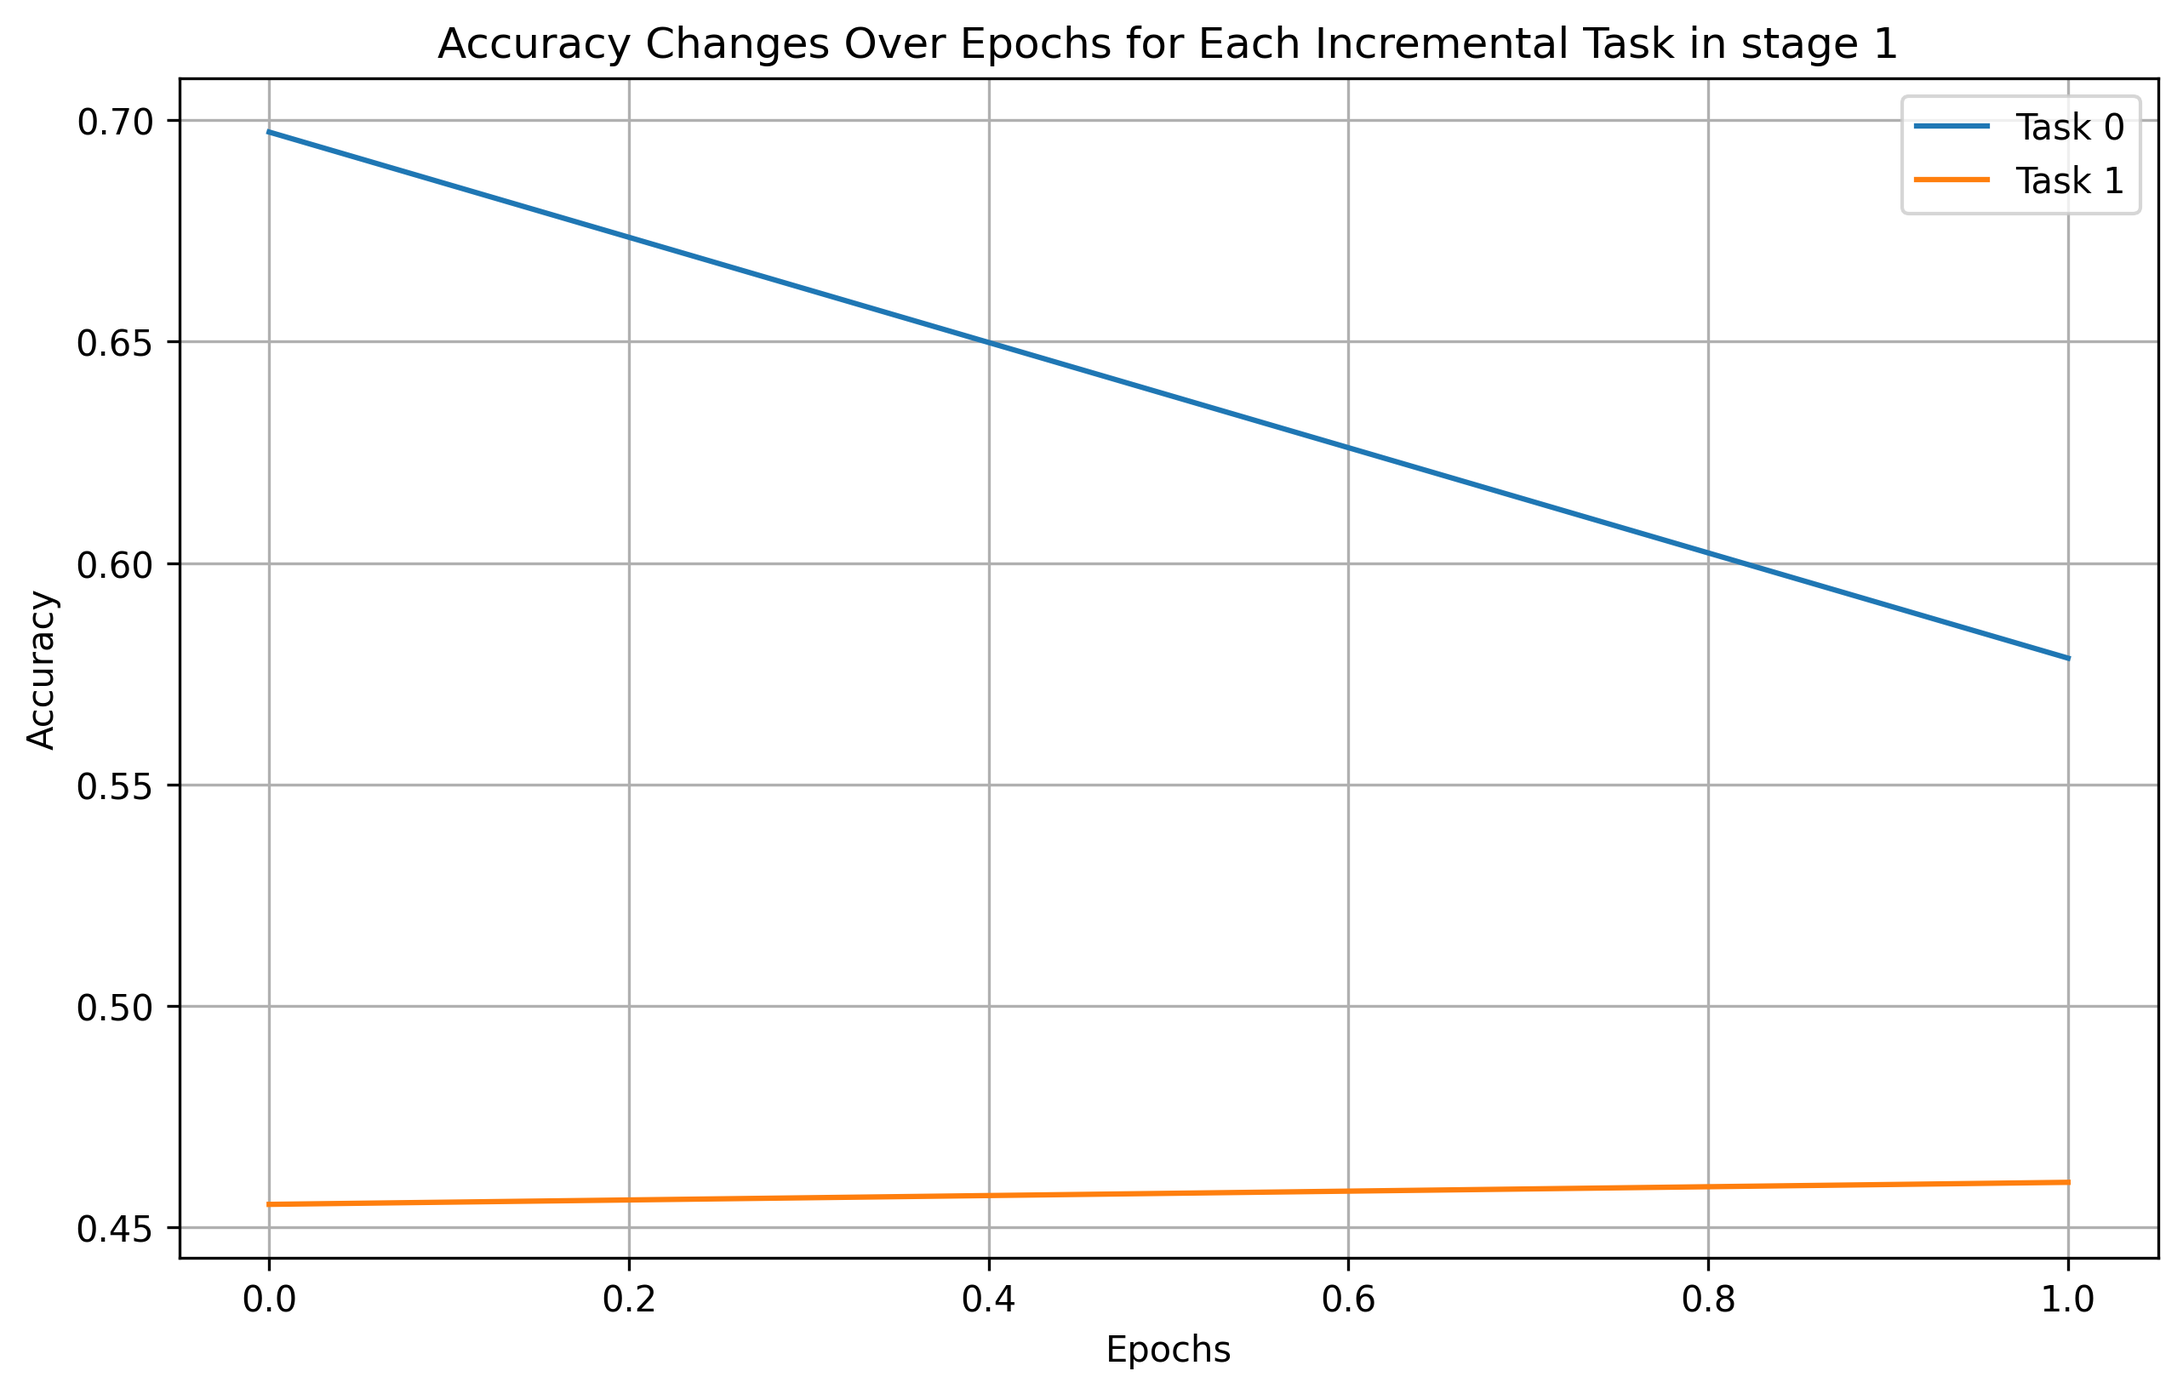
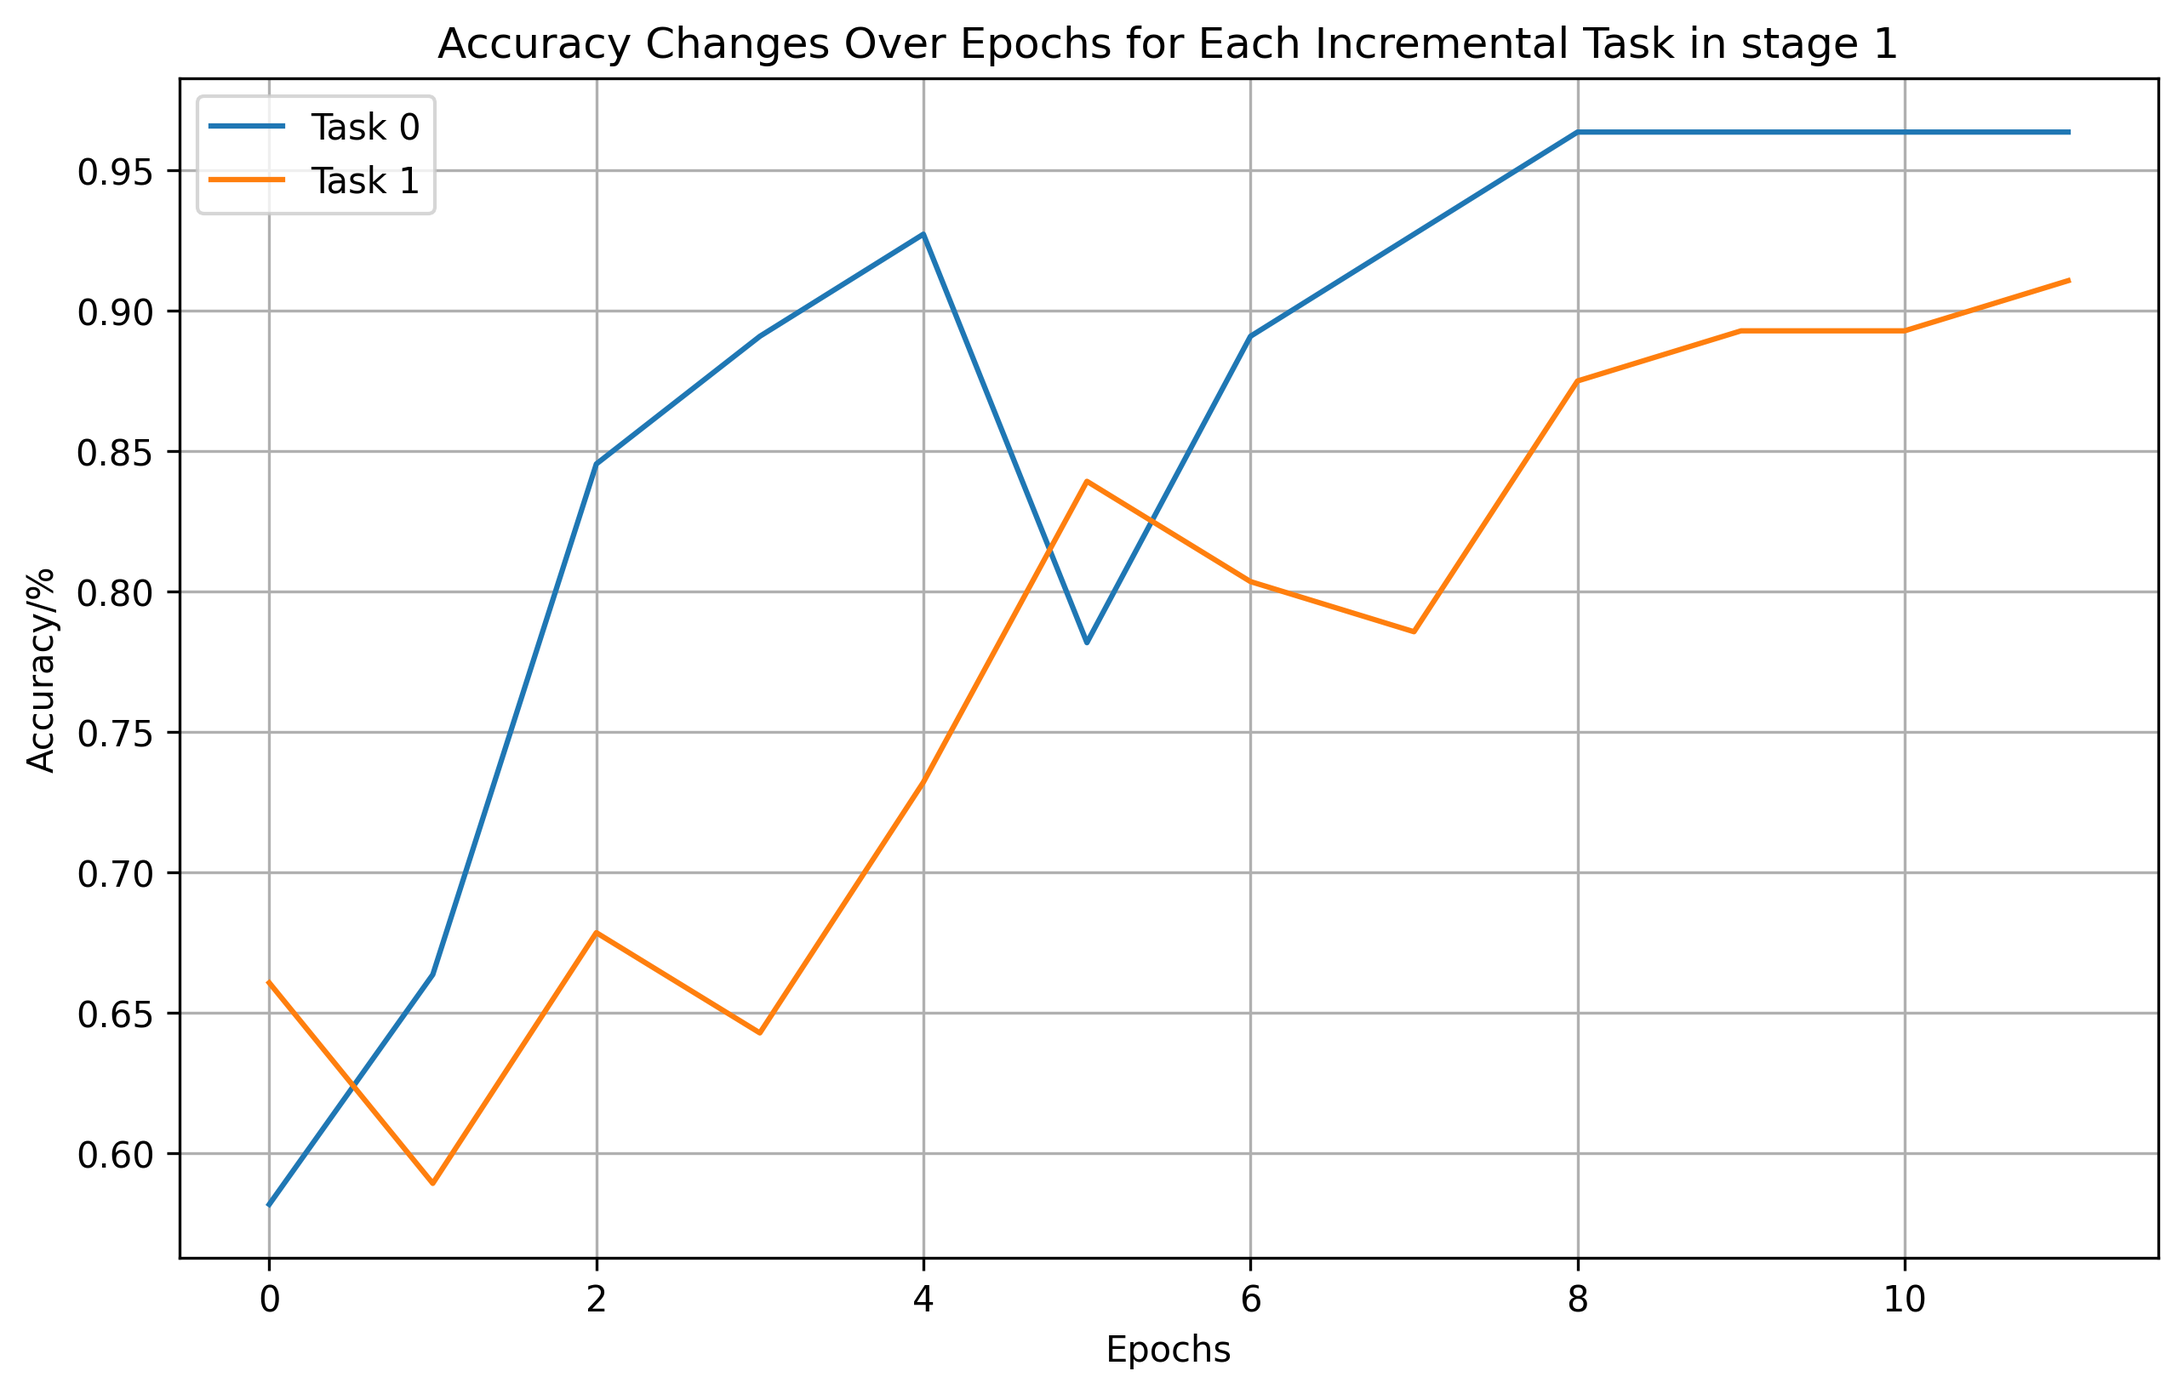
heat map; redesigning and using test and validation; no_grad covery throughout testing & validation process -> enabling large batch_size in testing process; gradient accumulation for stage2

diff --git a/trainer.py b/trainer.py
@@ -8,8 +8,7 @@ import torch.nn as nn
 import torch.nn.functional as F
 import torch.optim as optim
 from torchvision.transforms import Compose, CenterCrop, Normalize, Resize, ToTensor, ToPILImage
-from torch.optim.lr_scheduler import LambdaLR, StepLR
-
+from torch.optim.lr_scheduler import LambdaLR, StepLR, ReduceLROnPlateau, OneCycleLR
 import numpy as np
 import glob
 import PIL.Image as Image
@@ -24,6 +23,7 @@ from cifar import Cifar100
 from readpickle import GXWData
 from exemplar import Exemplar
 from copy import deepcopy
+from sklearn.model_selection import train_test_split
 
 
 class Trainer:
@@ -114,55 +114,58 @@ class Trainer:
             # old_state_dict = self.model.state_dict()
 
             # 创建新的模型，但仅修改 fc 层
-            
-               
 
-
-
-    def test(self, testdata, inc_i):     # task number added for deciding whether to use bias correction
-        print("test data number : ",len(testdata))   
+    
+    def test(self, testdata, inc_i, heatmap_name):  # used in phased test, producing heatmap
+        print("test data number : ",len(testdata.dataset)) 
+        self.model.eval()  
         with torch.no_grad():
-            self.model.eval()
-        count = 0
-        correct = 0
-        wrong = 0
-        for i, (image, label) in enumerate(testdata):
-            image = image.cuda()
-            label = label.view(-1).cuda()
-            p = self.model(image)
-            if inc_i > 0:   # if there is bias correction
-                p = self.bias_forward(p)
-            pred = p[:,:self.seen_cls].argmax(dim=-1)
-            correct += sum(pred == label).item()
-            wrong += sum(pred != label).item()
+            correct = 0
+            wrong = 0
+            pred_labels = torch.zeros((self.seen_cls, self.seen_cls), dtype=torch.int32)
+            
+            for i, (image, label) in enumerate(testdata):
+                image = image.cuda()
+                label = label.view(-1).cuda()
+                p = self.model(image)
+                if inc_i > 0:   # if there is bias correction
+                    p = self.bias_forward(p)
+                pred = p[:,:self.seen_cls].argmax(dim=-1)
+                correct += sum(pred == label).item()
+                wrong += sum(pred != label).item()
+                for p_i, l_i in zip(pred, label):
+                    pred_labels[l_i.item(), p_i.item()] += 1
+        
+        self.heat_map(pred_labels.cpu().numpy(),heatmap_name)
         acc = correct / (wrong + correct)
-        print("Test Acc: {}".format(acc*100))
+        print("Test Acc: {}".format(acc*100, '.2f'))
         self.model.train()
         print("---------------------------------------------")
         return acc
 
-
-    def eval(self, criterion, evaldata):
+    def validation(self, evaldata, inc_i):
+        print("Validation data number : ",len(evaldata.dataset))
+        self.model.eval()
         with torch.no_grad():
-            self.model.eval()
-        losses = []
-        correct = 0
-        wrong = 0
-        for i, (image, label) in enumerate(evaldata):
-            image = image.cuda()
-            label = label.view(-1).cuda()
-            p = self.model(image)
-            p = self.bias_forward(p)
-            loss = criterion(p, label)
-            losses.append(loss.item())
-            pred = p[:,:self.seen_cls].argmax(dim=-1)
-            correct += sum(pred == label).item()
-            wrong += sum(pred != label).item()
-        print("Validation Loss: {}".format(np.mean(losses)))
-        print("Validation Acc: {}".format(100*correct/(correct+wrong)))
-        self.valacc.append(100*correct/(correct+wrong))
+            correct = 0
+            wrong = 0
+            for i, (image, label) in enumerate(evaldata):
+                image = image.cuda()
+                label = label.view(-1).cuda()
+                p = self.model(image)
+                if inc_i > 0:   # if there is bias correction
+                    p = self.bias_forward(p)
+                pred = p[:,:self.seen_cls].argmax(dim=-1)
+                correct += sum(pred == label).item()
+                wrong += sum(pred != label).item()
+                pred = p[:,:self.seen_cls].argmax(dim=-1)
+                correct += sum(pred == label).item()
+                wrong += sum(pred != label).item()
+                acc = correct/(correct+wrong)
+        print("Validation Acc: {}".format(format(acc * 100, '.2f')))
+        self.valacc.append(100*acc)
         self.model.train()
-        return
+        return acc
 
     def get_lr(self, optimizer):
         for param_group in optimizer.param_groups:
@@ -178,8 +181,8 @@ class Trainer:
         dataset = self.dataset
         test_xs, test_ys, train_xs, train_ys = [], [], [], []
 
-        test_acc_noBiC = []
-        test_acc = []
+        val_acc_noBiC = []
+        val_acc = []
         test_accs = []
         test_accs_noBiC = []
 
@@ -200,19 +203,18 @@ class Trainer:
 
             train, val, test = dataset.getNextClasses(inc_i)
 
-            # 计算当前 batch 的类别数
+            #当前 batch 的类别数
             new_cls = set(y for _, y in train + val + test) - set(range(self.total_cls))
             
             num_new_cls = len(new_cls)
             self.num_new_cls.append(num_new_cls)
             print(f"New classes detected: {num_new_cls}")
             print(f"New classes for former tasks: {self.num_new_cls}")
-            # 1. 记录总类别数
+            #总类别数
             self.total_cls += num_new_cls
 
             if num_new_cls > 0:
                 
-                # 2. 扩展模型
                 self.expand_model(num_new_cls)
             
             print(f"total class till task {inc_i} :{self.total_cls}")
@@ -234,10 +236,10 @@ class Trainer:
 
             train_data = DataLoader(BatchData(train_xs, train_ys, self.input_transform),
                         batch_size=batch_size, shuffle=True, drop_last=True)
-            val_data = DataLoader(BatchData(val_x, val_y, self.input_transform_eval),
-                        batch_size=batch_size, shuffle=False)
+            eval_data = DataLoader(BatchData(val_x, val_y, self.input_transform_eval),
+                        batch_size=batch_size*10, shuffle=False)
             test_data = DataLoader(BatchData(test_xs, test_ys, self.input_transform_eval),
-                        batch_size=batch_size, shuffle=False)
+                        batch_size=batch_size*10, shuffle=False)
             if inc_i == 0:
                 optimizer = optim.SGD(self.model.parameters(), lr=lr, momentum=0.9,  weight_decay=2e-4)
                 # scheduler = LambdaLR(optimizer, lr_lambda=adjust_cifar100)
@@ -246,10 +248,10 @@ class Trainer:
             if inc_i > 0:               # Biaslayer trained only if there is bias correction
                 # bias_optimizer = optim.SGD(self.bias_layers[inc_i].parameters(), lr=lr, momentum=0.9)
                 # bias_optimizer = optim.Adam(self.bias_layers[-1].parameters(), lr=0.001) #version 1: only train the last bias layer #inc-1 -> -1
-                optimizer = optim.SGD(self.model.parameters(), lr=lr*10, momentum=0.9,  weight_decay=2e-4)
+                optimizer = optim.SGD(self.model.parameters(), lr=lr, momentum=0.9,  weight_decay=2e-4)
                 # scheduler = LambdaLR(optimizer, lr_lambda=adjust_cifar100)
                 scheduler = StepLR(optimizer, step_size=70, gamma=0.1)
-                bias_optimizer = optim.Adam([param for layer in self.bias_layers for param in layer.parameters()], lr=0.01)  #version2: train all the bias layers              
+                bias_optimizer = optim.Adam([param for layer in self.bias_layers for param in layer.parameters()], lr=0.1)  #version2: train all the bias layers              
                 # bias_scheduler = StepLR(bias_optimizer, step_size=70, gamma=0.1)
             # exemplar.update(total_cls//dataset.batch_num, (train_x, train_y), (val_x, val_y))
             exemplar.update(len(set(train_y) | set(val_y)), (train_x, train_y), (val_x, val_y))   ##bug?
@@ -261,11 +263,11 @@ class Trainer:
             val_bias_data = DataLoader(BatchData(val_xs, val_ys, self.input_transform),
                         batch_size=batch_size, shuffle=True, drop_last=False)    
 
-            test_acc.append([])
-            test_acc_noBiC.append([])            
+            val_acc.append([])
+            val_acc_noBiC.append([])            
 
             for epoch in range(epoches):
-                print("---"*50)
+                print("---"*20)
                 print("current incremental task : ", inc_i)
                 print("Epoch", epoch)
                 scheduler.step()
@@ -280,27 +282,29 @@ class Trainer:
                     self.stage1_distill(train_data, criterion, optimizer, num_new_cls)
                 else:
                     self.stage1_initial(train_data, criterion, optimizer)
-                acc = self.test(test_data, inc_i)
-                test_acc_noBiC[-1].append(acc)
-            test_accs_noBiC.append(max(test_acc_noBiC[-1]))
+                acc = self.validation(eval_data, inc_i)
+                val_acc_noBiC[-1].append(acc)
+            heatmap_name = f"heatmap_task_{inc_i}_before_BiC.png"
+            test_acc_noBic = self.test(test_data, inc_i, heatmap_name=heatmap_name)
+            test_accs_noBiC.append(test_acc_noBic)
 
             if inc_i > 0:
-                for epoch in range(3*epoches):
+                for epoch in range(2*epoches):
                     # bias_scheduler.step()
                     with torch.no_grad():
                         self.model.eval()
                     for _ in range(len(self.bias_layers)):
                         self.bias_layers[_].train()
                     self.stage2(val_bias_data, criterion, bias_optimizer)
-                    if epoch % 50 == 0:
-                        acc = self.test(test_data, inc_i)
-                        test_acc[-1].append(acc)
+                    if epoch % 20 == 0:
+                        acc = self.validation(eval_data, inc_i)
+                        val_acc[-1].append(acc)
             for i, layer in enumerate(self.bias_layers):
                 layer.printParam(i)
             self.previous_model = deepcopy(self.model)
-            acc = self.test(test_data, inc_i)
-            test_acc[-1].append(acc)
-            test_accs.append(max(test_acc[-1]))
+            heatmap_name = f"heatmap_task_{inc_i}_after_BiC.png"
+            test_acc = self.test(test_data, inc_i, heatmap_name=heatmap_name)
+            test_accs.append(test_acc)
             print("Test results on testset of model without BiC",test_accs_noBiC)
             print("Test results on testset after BiC training",test_accs)
     
@@ -308,43 +312,67 @@ class Trainer:
         
         #save model
         torch.save(self.model.state_dict(), 'model.pth')
+        self.trainer_visual(val_acc_noBiC, val_acc, test_accs, test_accs_noBiC)
+
         
-        # stage1 test accuracy 可视化
+    def trainer_visual(self, val_acc_noBiC, val_acc, test_accs, test_accs_noBiC):
+        # stage1 validation accuracy 可视化
         save_dir = "output"
         os.makedirs(save_dir, exist_ok=True)  
 
-
         plt.figure(figsize=(10, 6))  
-
-        for i in range(len(test_acc_noBiC)):
-            epochs = range(len(test_acc_noBiC[i]))
-            plt.plot(epochs, test_acc_noBiC[i], label=f"Task {i}")  
-
+        for i in range(len(val_acc_noBiC)):
+            epochs = range(len(val_acc_noBiC[i]))
+            plt.plot(epochs, val_acc_noBiC[i], label=f"Task {i}")  
         plt.xlabel("Epochs")
-        plt.ylabel("Accuracy")
+        plt.ylabel("Accuracy/%")
         plt.title("Accuracy Changes Over Epochs for Each Incremental Task in stage 1")
         plt.legend()  
         plt.grid(True)  
-
         save_path = os.path.join(save_dir, "Stage1_accuracy_plot.png")
         plt.savefig(save_path, dpi=300, bbox_inches='tight') 
         print(f"Plot saved at: {save_path}")
 
         # stage2 test accuracy 可视化
         plt.figure(figsize=(10, 6))  
-
-        for i in range(len(test_acc)):
-            epochs = range(len(test_acc[i]))
-            plt.plot(epochs, test_acc[i], label=f"Task {i}")  
-
-        plt.xlabel("Epochs")
-        plt.ylabel("Accuracy")
+        for i in range(len(val_acc)):
+            epochs = range(len(val_acc[i])) 
+            plt.plot(epochs , val_acc[i], label=f"Task {i}")  
+        plt.xlabel("Epoch/20_Epochs")
+        plt.ylabel("Accuracy/%")
         plt.title("Accuracy Changes Over Epochs for Each Incremental Task in stage 2")
         plt.legend()  
         plt.grid(True)  
         save_path = os.path.join(save_dir, "Stage2_accuracy_plot.png")
         plt.savefig(save_path, dpi=300, bbox_inches='tight')
         print(f"Plot saved at: {save_path}")
+
+        plt.figure(figsize=(10, 6))
+        # task accuracy decay 可视化
+        for i in range(len(test_accs_noBiC)):
+            tasks = range(len(test_accs_noBiC))
+            plt.plot(tasks, test_accs_noBiC, label=f"Task {i}")
+            plt.plot(test_accs, label=f"Task {i} with BiC")
+        plt.xlabel("Task number")
+        plt.ylabel("Accuracy")
+        plt.legend()
+        plt.title('Task Accuracy Decay')
+        plt.grid(True)
+        save_path = os.path.join(save_dir, "Task_Accuracy_Decay.png")
+        plt.savefig(save_path, dpi=300, bbox_inches='tight')
+        print(f"Plot saved at: {save_path}")
+
+
+    def heat_map(self, data, name="heatmap.png"):
+        data = data/data.max(axis=0) # normalization
+        plt.clf()
+        plt.imshow(data, cmap='Blues', interpolation='nearest', vmin=0, vmax=1)
+        plt.colorbar()
+        plt.title("Heat Map")
+        save_path = os.path.join("output", name)
+        plt.savefig(save_path, dpi=300, bbox_inches='tight')
+        print(f"Plot saved at: {save_path}")
+
 
 
     # def bias_forward(self, input):  #V1
@@ -456,9 +484,8 @@ class Trainer:
             p = self.model(image)
             # p = self.bias_forward(p)    #no meed for bias_forward in initial training
             loss = criterion(p[:,:self.seen_cls], label)
-            # optimizer.zero_grad()
             loss.backward(retain_graph=True)
-            if (i + 1) % 10 == 0:
+            if (i + 1) % 13 == 0:
                 optimizer.step()
                 optimizer.zero_grad()
             losses.append(loss.item())
@@ -492,7 +519,7 @@ class Trainer:
             loss = loss_soft_target * T * T + (1-alpha) * loss_hard_target
 
             loss.backward(retain_graph=True)
-            if (i + 1) % 10 == 0:
+            if (i + 1) % 13 == 0:
                 optimizer.step()
                 optimizer.zero_grad()
                 
@@ -504,14 +531,17 @@ class Trainer:
     def stage2(self, val_bias_data, criterion, optimizer):
         print("Evaluating ... ")
         losses = []
+        optimizer.zero_grad()
         for i, (image, label) in enumerate(tqdm(val_bias_data,leave = False)):
             image = image.cuda()
             label = label.view(-1).cuda()
             p = self.model(image)
             p = self.bias_forward(p)
             loss = criterion(p[:,:self.seen_cls], label)
-            optimizer.zero_grad()
             loss.backward()
+            if (i + 1) % 13 == 0:
+                optimizer.step()
+                optimizer.zero_grad()
             optimizer.step()
             losses.append(loss.item())
         print("stage2 loss :", np.mean(losses))

diff --git a/main.py b/main.py
@@ -7,8 +7,8 @@ import argparse
 
 parser = argparse.ArgumentParser(description='Incremental Learning BIC')
 parser.add_argument('--batch_size', default = 10, type = int)
-parser.add_argument('--epoch', default = 125, type = int) # small values for debug
-parser.add_argument('--lr', default = 0.0001, type = float) 
+parser.add_argument('--epoch', default = 80, type = int) # small values for debug
+parser.add_argument('--lr', default = 0.01, type = float) 
 parser.add_argument('--max_size', default = 2000, type = int)
 parser.add_argument('--init_cls', default = 0, type = int)  #### total_cls=100 -> init_cls=0
 args = parser.parse_args()
